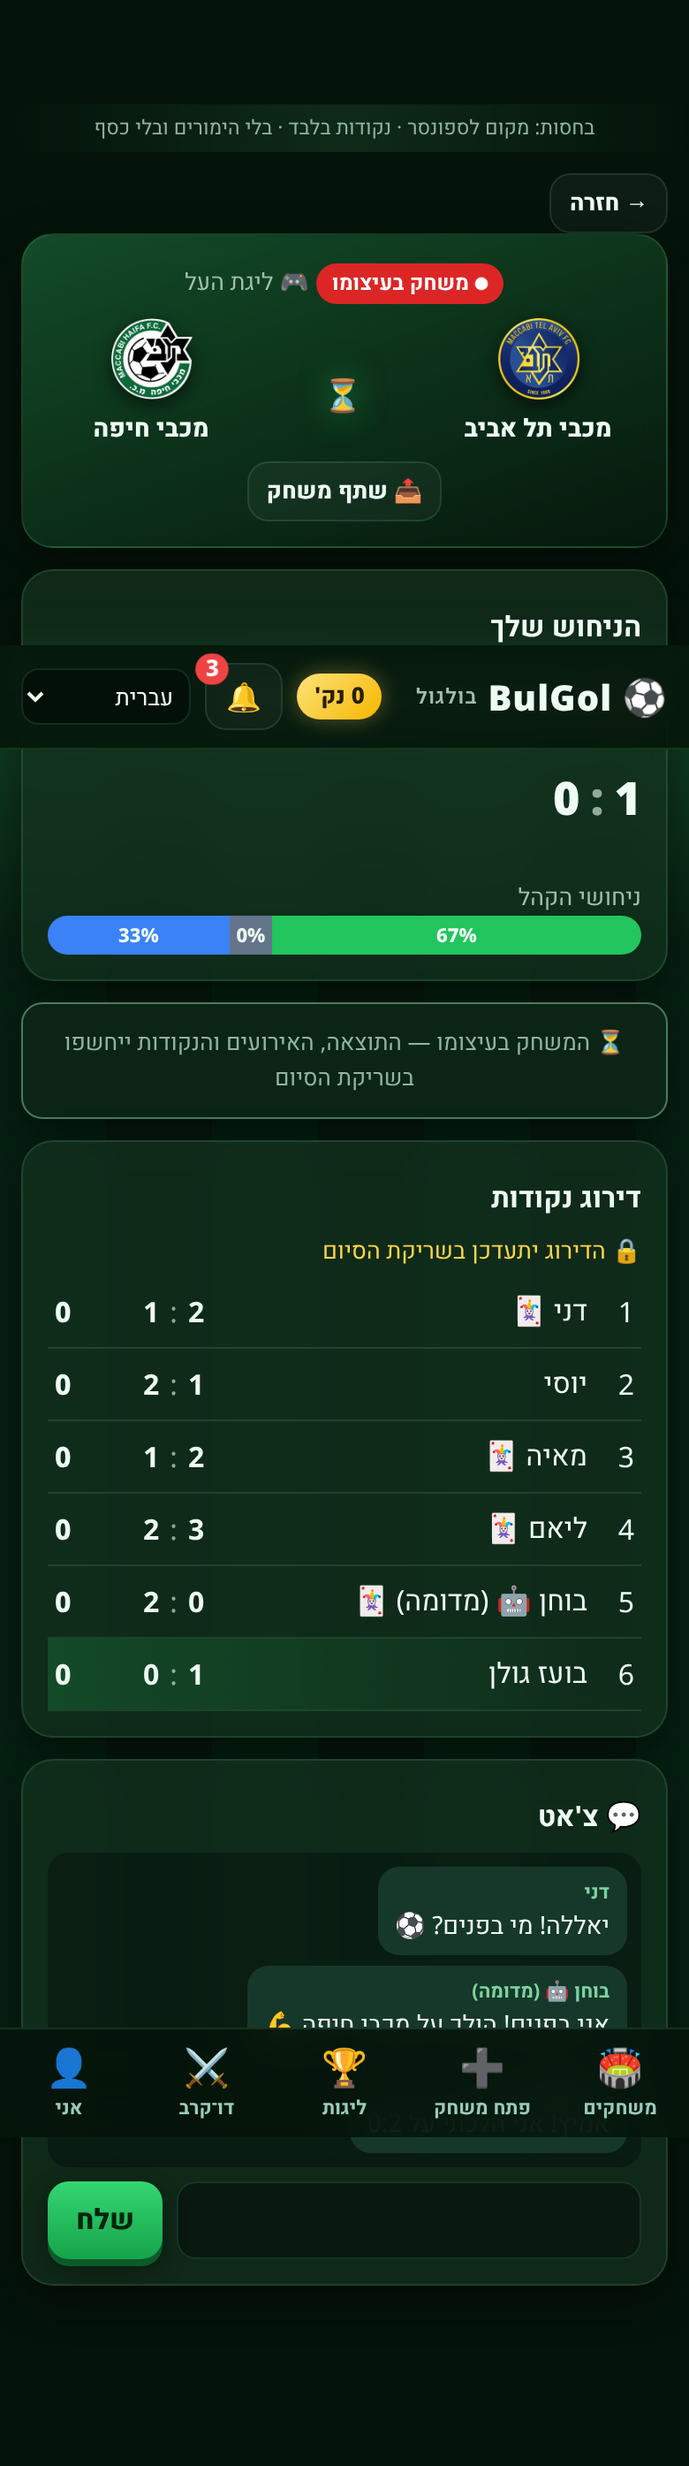
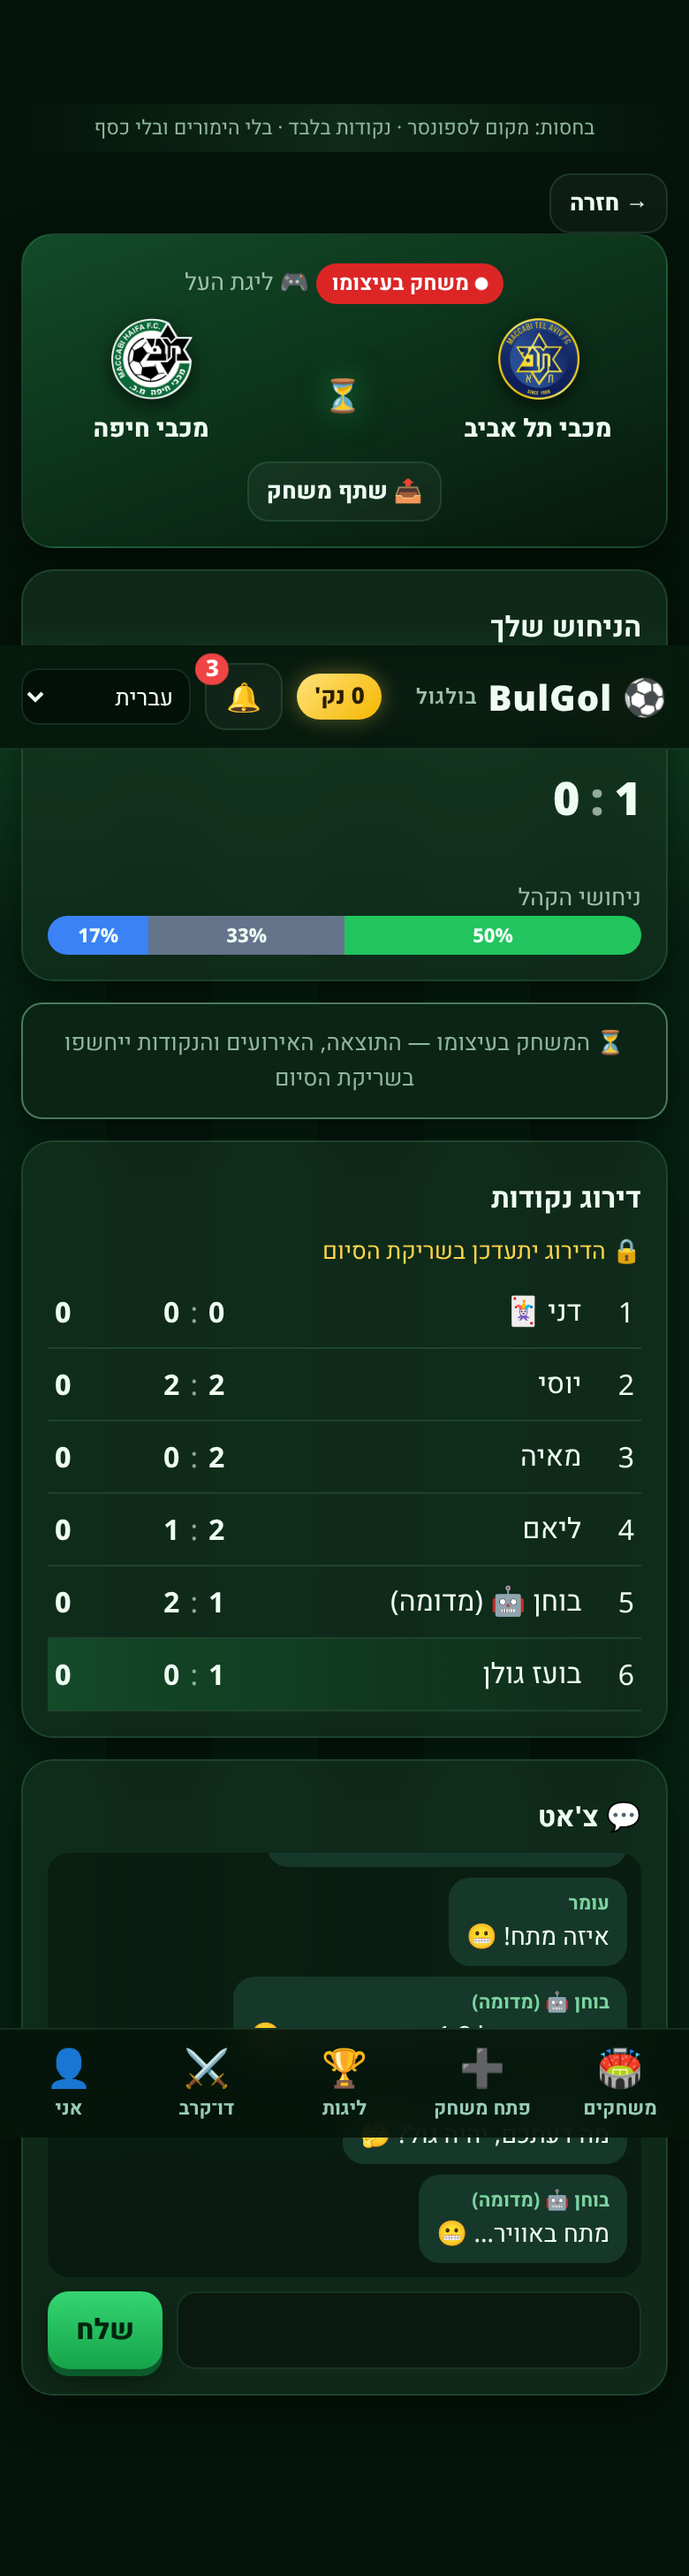
FT wording: winner/draw text everywhere after full time; robust FT detection

diff --git a/js/app.js b/js/app.js
@@ -64,7 +64,7 @@ function flipBoard(m){const tb=$('#board');if(!tb)return;const old={};tb.querySe
 function renderMatch(){const m=S.matches.find(x=>x.id===cur);if(!m){tab='home';return render();}const v=$('#view');const mine=m.preds[S.me]||{};const lock=closed(m);const L=LEAGUES[m.lg];
  const pl=PLAYERS.map((p,i)=>`<option value="${i}" ${mine.sc==i?'selected':''}>${esc(nm(p))}</option>`).join('');
  const scorerField=m.real?`<input id="psc" maxlength="40" value="${esc(mine.st||'')}" placeholder="${t('scorerTxt')}">`:`<select id="psc">${pl}</select>`;
- v.innerHTML=`<button class="ghost sm" data-tab="home">${RTL.includes(S.lang)?'→':'←'} ${t('back')}</button><div class="card hero">${status(m)} <small>${m.real?'🌍':'🎮'} ${esc(L[S.lang==='he'?'he':'en'])}</small>${matchHead(m)}${m.state==='pre'?`<div class="cd" id="cd"></div>`:''}${m.state==='live'&&m.real?`<small>⏳ ${t('waitFT')}</small>`:''}${m.stake?`<div class="stake">🎁 ${t('stakeLbl')}: ${esc(m.stake)}</div>`:''}<button class="ghost sm" data-act="invitem">📤 ${t('shareMatch')}</button></div>
+ v.innerHTML=`<button class="ghost sm" data-tab="home">${RTL.includes(S.lang)?'→':'←'} ${t('back')}</button><div class="card hero">${status(m)} <small>${m.real?'🌍':'🎮'} ${esc(L[S.lang==='he'?'he':'en'])}</small>${matchHead(m)}${m.state==='pre'?`<div class="cd" id="cd"></div>`:''}${m.state==='live'&&m.real?`<small>⏳ ${t('waitFT')}</small>`:''}${m.state==='done'?`<p class="win">🏁 ${esc(resTxt(m))}</p>`:''}${m.stake?`<div class="stake">🎁 ${t('stakeLbl')}: ${esc(m.stake)}</div>`:''}<button class="ghost sm" data-act="invitem">📤 ${t('shareMatch')}</button></div>
  <div class="card"><h3>${t('predict')}</h3>${notYet(m)?`<p>⏳ ${esc(opensIn(m))}</p>`:lock?`<p>${esc(lockMsg(m))}</p><p class="mypick">${mine.h!=null?sc(mine.h,mine.a):'—'}${mine.j?' 🃏':''}</p>`:`<div class="row pickrow"><div><small>${esc(nm(m.home))}</small><input id="ph" type="number" min="0" max="15" value="${mine.h??1}"></div><div><small>${esc(nm(m.away))}</small><input id="pa" type="number" min="0" max="15" value="${mine.a??0}"></div></div><label>${t('scorer')}</label>${scorerField}<div class="row"><div><label>${t('yellow')}</label><input id="py" type="number" min="0" max="12" value="${mine.y??3}"></div>${m.real?'':`<div><label>${t('corners')}</label><input id="pc" type="number" min="0" max="25" value="${mine.c??9}"></div>`}</div><label class="chk"><input type="checkbox" id="pr" ${mine.r?'checked':''}><span>${t('red')}</span></label><label class="chk"><input type="checkbox" id="pj" ${mine.j?'checked':''}><span>${t('joker')}</span></label><small>${t('bold')}</small><br><br><button data-act="pick" class="big">${t('save')}</button>`}
  ${crowd(m)}${m.state==='pre'&&!m.real?`<br><button class="ghost" data-act="start">${t('startLive')}</button>`:''}</div>
  ${false?`<div class="card"><h3>📡 ${t('livePick')}</h3><div class="row"><button class="sm ${m.livePick==='h'?'gold':''}" data-live="h">${esc(nm(m.home))}</button><button class="sm ${m.livePick==='a'?'gold':''}" data-live="a">${esc(nm(m.away))}</button><button class="sm ghost" data-live="n">${t('none')}</button></div></div>`:''}
@@ -99,7 +99,7 @@ function resolveLive(m,side){Object.entries(m.preds).forEach(([n,p])=>{const lp=
 // ---- real matches: poll TheSportsDB after kickoff ----
 // Budget saver: no mid-match polling. First request at kickoff+110 min, then every 5 min until FT.
 const FT_AFTER=110*6e4,FT_EVERY=5*6e4;
-async function pollReal(){for(const m of S.matches.filter(x=>x.real&&x.state!=='done'&&Date.now()>x.ko+FT_AFTER&&Date.now()-(x.lastPoll||0)>=FT_EVERY)){try{m.lastPoll=Date.now();const r=await API.result(m.real);if(!r||!r.ft){save();continue;}m.state='live';m.sh=r.sh;m.sa=r.sa;m.y=r.y;m.r=r.r;m.feed=r.events;m.firstScName=r.firstScorer;finish(m);}catch(e){}}}
+async function pollReal(){for(const m of S.matches.filter(x=>x.real&&x.state!=='done'&&Date.now()>x.ko+FT_AFTER&&Date.now()-(x.lastPoll||0)>=FT_EVERY)){try{m.lastPoll=Date.now();const r=await API.result(m.real);if(r&&!r.ft&&r.has&&Date.now()>m.ko+3*36e5&&!/^(1H|2H|HT|ET|LIVE|P|BT|Susp|INT)/i.test(r.status||''))r.ft=true;if(!r||!r.ft){save();continue;}m.state='live';m.sh=r.sh;m.sa=r.sa;m.y=r.y;m.r=r.r;m.feed=r.events;m.firstScName=r.firstScorer;finish(m);}catch(e){}}}
 const norm=s=>String(s||'').toLowerCase().normalize('NFD').replace(/[\u0300-\u036f]/g,'').trim();
 function scorerHit(m,p){if(!m.real)return p.sc===m.firstSc;if(!p.st||!m.firstScName)return false;const a=norm(p.st),b=norm(m.firstScName);return b.includes(a)&&a.length>=3||b.split(' ').pop()===a.split(' ').pop();}
 function score(m,p,prov){let s=0;const res=Math.sign(m.sh-m.sa),pr=Math.sign(p.h-p.a);if(res===pr)s+=3;if(p.h===m.sh&&p.a===m.sa)s+=5;if(!prov||m.firstSc!=null||m.firstScName){if(scorerHit(m,p))s+=2;}if(!prov){if(p.y===m.y)s+=1;if(p.r===(m.r>0))s+=1;if(!m.real&&Math.abs(p.c-m.c)<=1)s+=1;}const bold=(pr<0)||(p.h+p.a>=5);if(bold&&res===pr)s*=1.5;if(p.j)s*=2;return Math.round(s+(p.live||0));}
@@ -111,15 +111,16 @@ function finish(m){if(m.state==='done')return;m.state='done';m.revealing=1;let b
  if(best===S.me)badge('ball');
  S.duels.forEach(d=>{if(!d.res&&m.preds[d.vs]&&me){d.mid=m.id;d.label=nm(m.home)+' – '+nm(m.away);const a=me.pts,b=m.preds[d.vs].pts;d.res=a>b?'🏆 '+S.me:a<b?'🏆 '+dn(d.vs):'🤝';if(a>b)badge('duel');}});
  const top=S.leagues[0].members.map(p=>[p,S.totals[p]||0]).sort((a,b)=>b[1]-a[1])[0];if(top[0]===S.me&&S.matches.filter(x=>x.state==='done').length>=3)badge('season');
- Tester.ft(m);const wt=m.sh>m.sa?nm(m.home):m.sa>m.sh?nm(m.away):t('draw');const msg='🏁 '+nm(m.home)+' '+m.sh+':'+m.sa+' '+nm(m.away)+' · '+t('matchWin')+': '+wt+' · '+t('ballTo')+dn(best||'—');notify(msg);Push.local(t('ftTitle'),msg,m.id);
+ Tester.ft(m);const msg='🏁 '+resTxt(m)+' ('+nm(m.home)+' '+m.sh+':'+m.sa+' '+nm(m.away)+') · '+t('ballTo')+dn(best||'—');notify(msg);Push.local(t('ftTitle'),msg,m.id);
  const here=tab==='match'&&cur===m.id;if(here){render();toast('🏁 '+t('revealed'));}prevRank[m.id]={};Object.keys(m.preds).forEach((n,i)=>prevRank[m.id][n]=i);
  const done=()=>{m.revealing=0;save();if(tab==='match'&&cur===m.id)flipBoard(m);else if(tab==='home')render();};const ok=me&&Math.sign(me.h-me.a)===Math.sign(m.sh-m.sa);
  if(here){setTimeout(done,1800);setTimeout(()=>{ballPopup(m);if(ok)setTimeout(()=>celebrate(m,false),1600);setTimeout(finalWhistle,ok?3400:1200);},3600);}else{done();if(!document.hidden){ballPopup(m);if(ok)setTimeout(()=>celebrate(m,false),1600);}}}
-function celebrate(m,snd){fireworks();if(snd)applause(3.5);else applause(2.5);toast('🎉 '+t('youRight')+' '+nm(m.home)+' '+m.sh+':'+m.sa+' '+nm(m.away));vib([60,40,60]);}
+function resTxt(m){if(m.state!=='done')return t('inProg');const sc2=Math.max(m.sh,m.sa)+':'+Math.min(m.sh,m.sa);return m.sh===m.sa?t('drawRes')+' '+m.sh+':'+m.sa:(m.sh>m.sa?nm(m.home):nm(m.away))+' '+t('wonRes')+' '+sc2;}
+function celebrate(m,snd){fireworks();if(snd)applause(3.5);else applause(2.5);toast('🎉 '+t('youRight')+' '+resTxt(m));vib([60,40,60]);}
 function fireworks(){const c=$('#confetti'),x=c.getContext('2d');c.width=innerWidth;c.height=innerHeight;const ps=[];for(let k=0;k<6;k++){const cx=c.width*(.15+Math.random()*.7),cy=c.height*(.15+Math.random()*.4),col=['#ffd54a','#22c55e','#3b82f6','#ef4444','#e879f9','#fff'][k],d=k*25;for(let i=0;i<60;i++){const an=Math.random()*6.283,sp=1+Math.random()*5;ps.push({x:cx,y:cy,vx:Math.cos(an)*sp,vy:Math.sin(an)*sp,col,d,l:70+Math.random()*30});}}let f=0;(function fr(){x.globalCompositeOperation='destination-out';x.fillStyle='rgba(0,0,0,.25)';x.fillRect(0,0,c.width,c.height);x.globalCompositeOperation='source-over';ps.forEach(p=>{if(f<p.d||f>p.d+p.l)return;p.x+=p.vx;p.y+=p.vy;p.vy+=.06;p.vx*=.98;x.fillStyle=p.col;x.beginPath();x.arc(p.x,p.y,2.4,0,6.283);x.fill();});if(++f<230)requestAnimationFrame(fr);else x.clearRect(0,0,c.width,c.height);})();}
-function ballPopup(m){cur=m.id;$('#mcard').innerHTML=`<div class="ballpop"><div class="rays"></div><div class="ball">⚽</div><small>${esc(nm(m.home))} ${m.sh}:${m.sa} ${esc(nm(m.away))}</small><h2>${t('ballTo')}${esc(m.winner)}!</h2><p class="bigpts">${m.preds[m.winner].pts} ${t('pts')}</p><button class="gold" data-act="share">📤 ${t('share')}</button> <button class="ghost" data-act="close">${t('close')}</button></div>`;$('#modal').classList.add('show');applause(3.5);confetti();vib([80,60,80,60,200]);}
+function ballPopup(m){cur=m.id;$('#mcard').innerHTML=`<div class="ballpop"><div class="rays"></div><div class="ball">⚽</div><small>🏁 ${t('done')} · ${esc(nm(m.home))} ${m.sh}:${m.sa} ${esc(nm(m.away))}</small><p class="win">${esc(resTxt(m))}</p><h2>${t('ballTo')}${esc(m.winner)}!</h2><p class="bigpts">${m.preds[m.winner].pts} ${t('pts')}</p><button class="gold" data-act="share">📤 ${t('share')}</button> <button class="ghost" data-act="close">${t('close')}</button></div>`;$('#modal').classList.add('show');applause(3.5);confetti();vib([80,60,80,60,200]);}
 function confetti(){const c=$('#confetti'),x=c.getContext('2d');c.width=innerWidth;c.height=innerHeight;const ps=Array.from({length:180},()=>({x:Math.random()*c.width,y:-20-Math.random()*c.height,v:2+Math.random()*4,s:4+Math.random()*7,a:Math.random()*6,col:['#ffd54a','#22c55e','#fff','#3b82f6','#ef4444'][rnd(5)]}));let f=0;(function fr(){x.clearRect(0,0,c.width,c.height);ps.forEach(p=>{p.y+=p.v;p.a+=.1;x.fillStyle=p.col;x.save();x.translate(p.x+Math.sin(p.a)*10,p.y);x.rotate(p.a);x.fillRect(-p.s/2,-p.s/2,p.s,p.s*.6);x.restore();});if(++f<260)requestAnimationFrame(fr);else x.clearRect(0,0,c.width,c.height);})();}
-function shareCard(){const m=S.matches.find(x=>x.id===cur);const c=document.createElement('canvas');c.width=1080;c.height=1080;const x=c.getContext('2d');const g=x.createRadialGradient(540,420,50,540,540,800);g.addColorStop(0,'#1f7a3d');g.addColorStop(1,'#04140a');x.fillStyle=g;x.fillRect(0,0,1080,1080);x.strokeStyle='#ffffff22';x.lineWidth=6;x.beginPath();x.arc(540,450,230,0,7);x.stroke();x.textAlign='center';x.fillStyle='#fff';x.font='bold 64px sans-serif';x.fillText('BulGol · בולגול',540,120);x.font='240px sans-serif';x.fillText('⚽',540,530);x.fillStyle='#ffd54a';x.font='bold 70px sans-serif';x.fillText(t('ballTo')+m.winner,540,720);x.fillStyle='#fff';x.font='52px sans-serif';x.fillText(nm(m.home)+'  '+m.sh+' : '+m.sa+'  '+nm(m.away),540,830);x.fillText(m.preds[m.winner].pts+' '+t('pts'),540,910);x.font='34px sans-serif';x.fillStyle='#9bb';x.fillText(t('pointsOnly'),540,1020);
+function shareCard(){const m=S.matches.find(x=>x.id===cur);const c=document.createElement('canvas');c.width=1080;c.height=1080;const x=c.getContext('2d');const g=x.createRadialGradient(540,420,50,540,540,800);g.addColorStop(0,'#1f7a3d');g.addColorStop(1,'#04140a');x.fillStyle=g;x.fillRect(0,0,1080,1080);x.strokeStyle='#ffffff22';x.lineWidth=6;x.beginPath();x.arc(540,450,230,0,7);x.stroke();x.textAlign='center';x.fillStyle='#fff';x.font='bold 64px sans-serif';x.fillText('BulGol · בולגול',540,120);x.font='240px sans-serif';x.fillText('⚽',540,530);x.fillStyle='#ffd54a';x.font='bold 70px sans-serif';x.fillText(t('ballTo')+m.winner,540,720);x.fillStyle='#fff';x.font='52px sans-serif';x.fillText(nm(m.home)+'  '+m.sh+' : '+m.sa+'  '+nm(m.away),540,800);x.fillStyle='#ffd54a';x.font='bold 44px sans-serif';x.fillText('🏁 '+resTxt(m),540,860);x.fillStyle='#fff';x.font='52px sans-serif';x.fillText(m.preds[m.winner].pts+' '+t('pts'),540,935);x.font='34px sans-serif';x.fillStyle='#9bb';x.fillText(t('pointsOnly'),540,1020);
  c.toBlob(b=>{const file=new File([b],'bulgol-ball.png',{type:'image/png'});if(navigator.canShare&&navigator.canShare({files:[file]}))navigator.share({files:[file],title:'BulGol'}).catch(()=>{});else{const a=document.createElement('a');a.href=URL.createObjectURL(b);a.download='bulgol-ball.png';a.click();}});}
 async function shareLink(url,title){try{if(navigator.share){await navigator.share({title,url});return;}}catch(e){return;}try{await navigator.clipboard.writeText(url);toast('🔗 '+t('copied'));}catch(e){toast(url);}}
 function inviteUrl(kind,id){const m=S.matches.find(x=>x.id===id);const u=new URL(location.href);u.search='';u.hash='';if(kind==='m'&&m){u.searchParams.set('m',id);if(!Cloud.on()){u.searchParams.set('d',JSON.stringify({lg:m.lg,home:m.home,away:m.away,hb:m.hb,ab:m.ab,real:m.real,ko:m.ko,stake:m.stake}).slice(0,1500));}}else u.searchParams.set('l',id);return u.toString();}

diff --git a/js/i18n.js b/js/i18n.js
@@ -10,3 +10,6 @@ Object.entries({"he": {"inProg": "משחק בעיצומו", "inProgTxt": "המש
 
 // invite sheet (he/en; other langs fall back to en)
 Object.entries({"he": {"pickContacts": "בחר מאנשי הקשר", "noPicker": "בחירה מאנשי הקשר לא נתמכת בדפדפן הזה — הוסף חברים ידנית או השתמש בשיתוף רגיל", "noFriends": "אין עדיין חברים שמורים", "fName": "שם", "fPhone": "טלפון (לא חובה)", "fAdd": "הוסף חבר", "fBad": "צריך שם או מספר טלפון תקין", "fDel": "מחק", "sendSel": "שלח לנבחרים", "copyLink": "העתק קישור", "sysShare": "שיתוף רגיל", "inviteTxt": "בוא לנחש איתי ב-BulGol:"}, "en": {"pickContacts": "Pick from contacts", "noPicker": "Contact picking isn't supported in this browser — add friends manually or use regular share", "noFriends": "No saved friends yet", "fName": "Name", "fPhone": "Phone (optional)", "fAdd": "Add friend", "fBad": "Enter a name or a valid phone", "fDel": "Delete", "sendSel": "Send to selected", "copyLink": "Copy link", "sysShare": "Regular share", "inviteTxt": "Come predict with me on BulGol:"}}).forEach(([l,o])=>{if(T[l])Object.assign(T[l],o);});
+
+// FT result wording
+Object.entries({"he": {"wonRes": "ניצחה", "drawRes": "תיקו"}, "en": {"wonRes": "won", "drawRes": "Draw"}, "es": {"wonRes": "ganó", "drawRes": "Empate"}, "fr": {"wonRes": "a gagné", "drawRes": "Match nul"}, "de": {"wonRes": "gewann", "drawRes": "Unentschieden"}, "ar": {"wonRes": "فاز", "drawRes": "تعادل"}, "ru": {"wonRes": "победил", "drawRes": "Ничья"}, "zh": {"wonRes": "获胜", "drawRes": "平局"}, "pt": {"wonRes": "venceu", "drawRes": "Empate"}, "it": {"wonRes": "ha vinto", "drawRes": "Pareggio"}, "ja": {"wonRes": "の勝利", "drawRes": "引き分け"}, "hi": {"wonRes": "जीता", "drawRes": "ड्रॉ"}, "tr": {"wonRes": "kazandı", "drawRes": "Beraberlik"}}).forEach(([l,o])=>{if(T[l])Object.assign(T[l],o);});

diff --git a/js/api.js b/js/api.js
@@ -7,9 +7,9 @@ const API={base:()=>'https://www.thesportsdb.com/api/v1/json/'+CONFIG.SPORTSDB_K
   const out=[];(n.events||[]).forEach(e=>{if(e.strStatus==='NS'||!e.intHomeScore)out.push(e);});for(const rr of [r,r+1]){const d=await API.j(`eventsround.php?id=${id}&r=${rr}&s=${encodeURIComponent(s)}`);(d.events||[]).forEach(e=>{if(out.some(x=>x.idEvent===e.idEvent))return;if(e.strStatus==='NS'||!e.intHomeScore)out.push(e);});}
   out.sort((x,y)=>Date.parse(x.strTimestamp+'Z')-Date.parse(y.strTimestamp+'Z'));return out.filter(e=>Date.parse(e.strTimestamp+'Z')>Date.now()-6e6).slice(0,30);},
  async result(id){const d=await API.j('lookupevent.php?id='+id);const e=(d.events||[])[0];if(!e)return null;
-  const ft=['FT','AET','PEN','Match Finished'].includes(e.strStatus);let tl=[];
+  const ft=/^(FT|AET|PEN|AP|Match Finished|Finished|After (Extra Time|Penalties))$/i.test(String(e.strStatus||'').trim());let tl=[];
   if(e.intHomeScore!=null){try{tl=(await API.j('lookuptimeline.php?id='+id)).timeline||[];}catch(x){}}
   const goals=tl.filter(t=>t.strTimeline==='Goal').sort((a,b)=>(+a.intTime||0)-(+b.intTime||0));
-  return{status:e.strStatus,ft,sh:+e.intHomeScore||0,sa:+e.intAwayScore||0,firstScorer:goals[0]?goals[0].strPlayer:null,
+  return{status:e.strStatus,has:e.intHomeScore!=null&&e.intHomeScore!=='',ft,sh:+e.intHomeScore||0,sa:+e.intAwayScore||0,firstScorer:goals[0]?goals[0].strPlayer:null,
    y:tl.filter(t=>/yellow/i.test(t.strTimelineDetail||'')).length,r:tl.filter(t=>/red/i.test(t.strTimelineDetail||'')).length,
    events:tl.map(t=>`${t.intTime||''}' ${t.strTimeline==='Goal'?'⚽':/red/i.test(t.strTimelineDetail)?'🟥':'🟨'} ${t.strPlayer||''}`)};}};

diff --git a/shot5.py b/shot5.py
@@ -14,7 +14,7 @@ async def main():
     await pg.click('[data-open] >> nth=0');await pg.wait_for_timeout(300)
     await pg.wait_for_selector('.hero .pill.done',timeout=30000);await pg.wait_for_timeout(1000);await pg.screenshot(path='screenshots/v5-3-ft-reveal.png',full_page=True)
     await pg.wait_for_timeout(1500);await pg.screenshot(path='screenshots/v5-4-ft-table-moves.png',full_page=True)
-    await pg.wait_for_selector('.ballpop',timeout=8000);await pg.wait_for_timeout(900);await pg.screenshot(path='screenshots/v5-5-ball.png')
+    await pg.wait_for_selector('.ballpop',timeout=8000);await pg.wait_for_timeout(900);await pg.screenshot(path='screenshots/v5-fix-ball.png');print('BALL',await pg.inner_text('.ballpop'))
     await pg.click('[data-act=close]');await pg.click('[data-tab=me]');await pg.screenshot(path='screenshots/v5-6-notif-button.png',full_page=True)
     await pg.click('[data-tab=home]');await pg.click('[data-act=sharem] >> nth=0');await pg.fill('#fn','דני <b>');await pg.fill('#fp','052-123-4567');await pg.click('[data-act=iadd]');await pg.fill('#fn','Rina');await pg.click('[data-act=iadd]');await pg.wait_for_timeout(300);await pg.screenshot(path='screenshots/v5-invite.png')
     print('rows',await pg.locator('.frow').count(),await pg.inner_text('.flist'));await pg.click('[data-act=close]')

diff --git a/TASK_REPORT.md b/TASK_REPORT.md
@@ -51,3 +51,4 @@ CSP (scripts and styles only from the site; images and API calls only from TheSp
 - Share sheet (js/invite.js): saved friends (localStorage `bgFriends`, max 50, sanitized + escaped), Contact Picker (`navigator.contacts.select`, Android Chrome only, hidden elsewhere with a note), "send to selected" (1 phone → wa.me, several → sms:, none → navigator.share), copy link, and regular share.
 - New strings: 13 languages for reveal/notifications; he/en for the share sheet (others fall back to English).
 - Screenshots: screenshots/v5-*.png
+- v5 fix: after FT every result text says 'X ניצחה 2:1' / 'תיקו' (resTxt, 13 langs) on Ball popup, share card, hero, toast, notification; looser FT detection from TheSportsDB.
